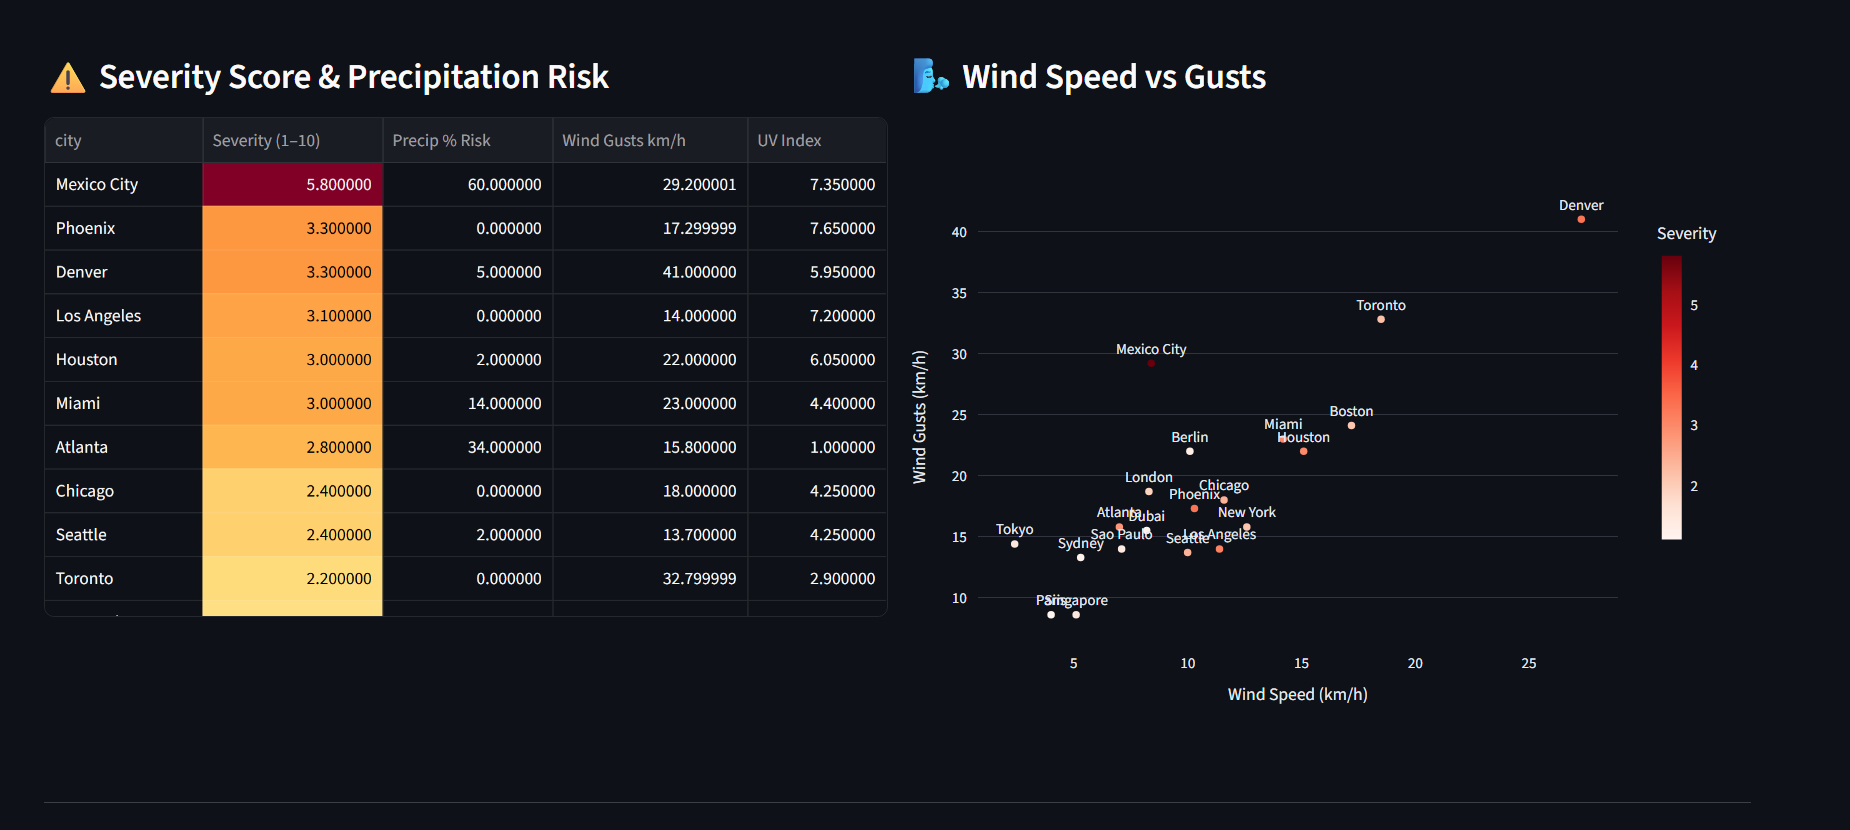
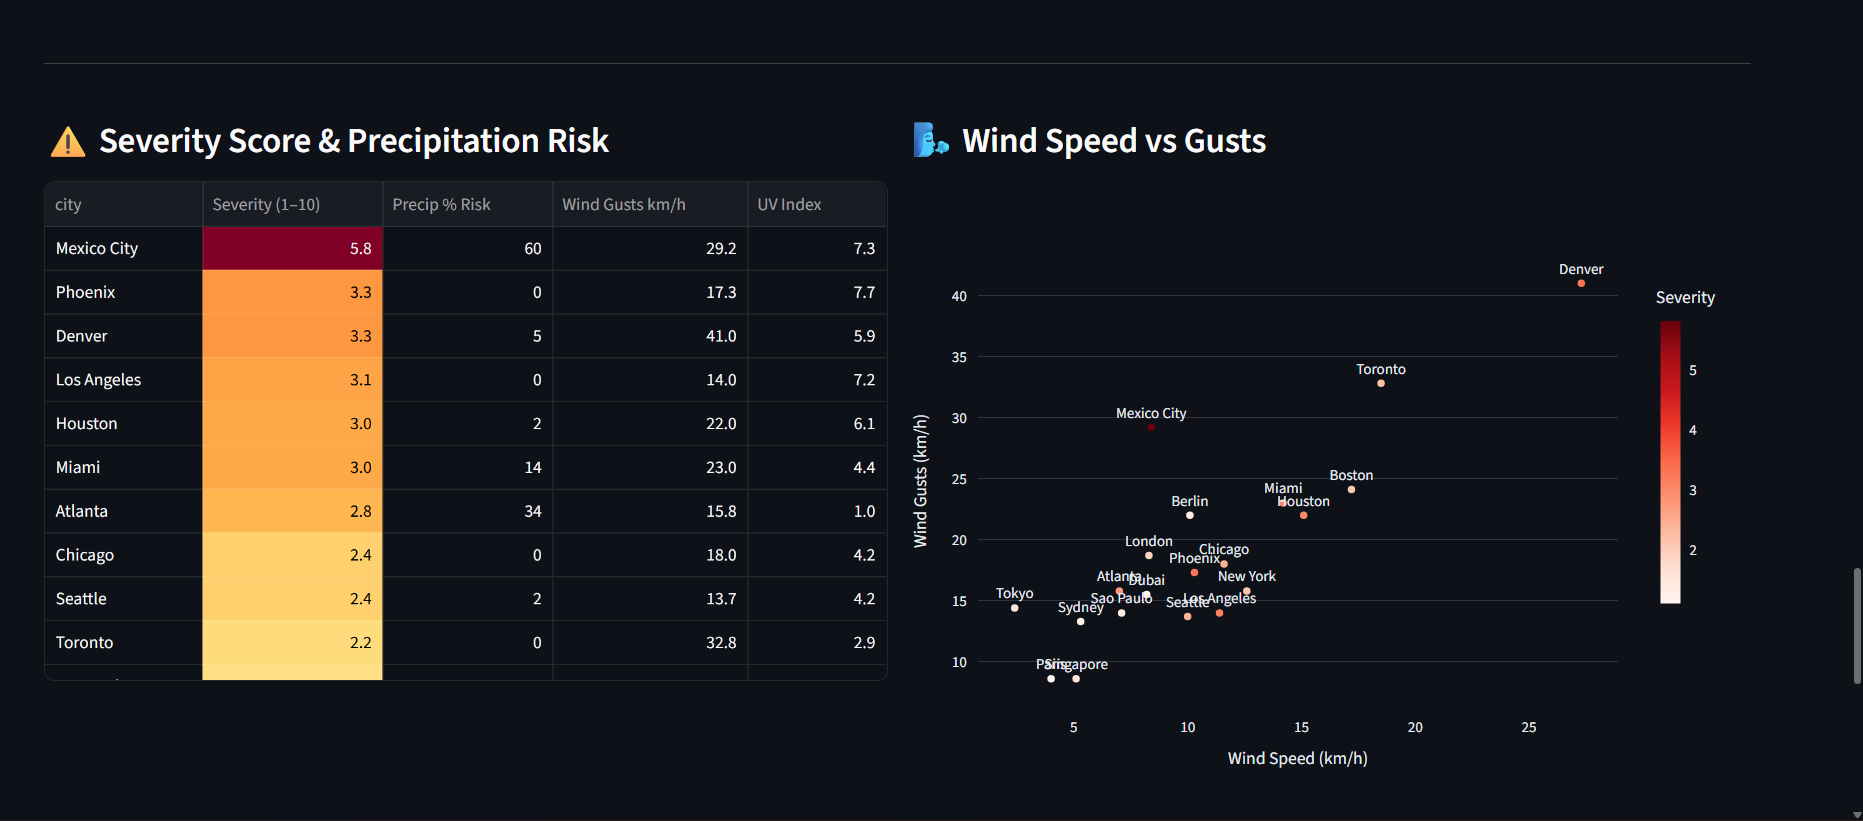
fix: severity table column formatting via Styler.format()

diff --git a/dashboard/app.py b/dashboard/app.py
@@ -312,9 +312,16 @@ with left2:
         "precipitation_prob_pct": "Precip % Risk",
         "wind_gusts_kmh": "Wind Gusts km/h",
         "uv_index": "UV Index",
-    }).round(1)
+    })
     st.dataframe(
-        df_sev.style.background_gradient(subset=["Severity (1–10)"], cmap="YlOrRd"),
+        df_sev.style
+            .background_gradient(subset=["Severity (1–10)"], cmap="YlOrRd")
+            .format({
+                "Severity (1–10)": "{:.1f}",
+                "Precip % Risk":   "{:.0f}",
+                "Wind Gusts km/h": "{:.1f}",
+                "UV Index":        "{:.1f}",
+            }),
         use_container_width=True, hide_index=True,
     )
 
